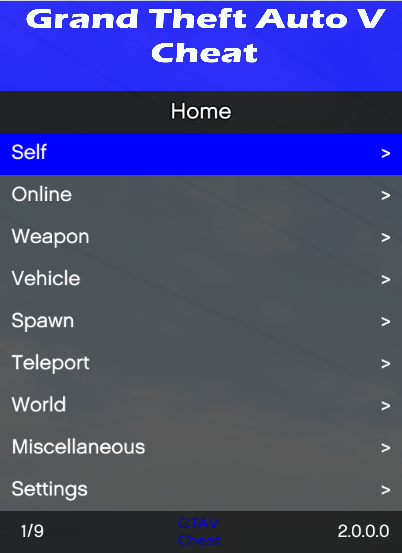
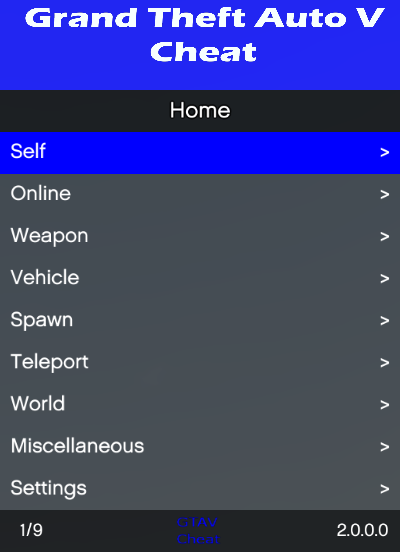
Renamed DeleteActiveTheme() to DeleteLoadedTheme() for consistency & updated Preview Image

diff --git a/Source/Cheat Functions/FiberMain.cpp b/Source/Cheat Functions/FiberMain.cpp
@@ -23,7 +23,7 @@ int SetPedTexture_Torso = 0, SetPedTexture_TorsoTexture = 0, SetPedTexture_Face 
 
 
 void Cheat::FiberMain()
-{ 
+{
 	CheatFeatures::NonLooped();
 	while (true)
 	{
@@ -3131,7 +3131,7 @@ void Cheat::FiberMain()
 				}
 				if (GUI::Option("Delete Theme", "Delete loaded theme"))
 				{
-					GUI::DeleteCurrentTheme();
+					GUI::DeleteLoadedTheme();
 				}
 			}
 			else

diff --git a/Source/GUI/GUI.cpp b/Source/GUI/GUI.cpp
@@ -779,7 +779,7 @@ void Cheat::GUI::LoadTheme(std::string ThemeFileName, bool StartUp)
 	}
 }
 
-void Cheat::GUI::DeleteCurrentTheme()
+void Cheat::GUI::DeleteLoadedTheme()
 {
 	remove(CheatFunctions::StringToChar(CheatFunctions::ReturnThemeFilePath(CurrentTheme)));
 	CheatFunctions::IniFileRemoveKey(CheatFunctions::ReturnConfigFilePath(), "Settings", "Active Theme");

diff --git a/Header/GUI/GUI.h b/Header/GUI/GUI.h
@@ -180,7 +180,7 @@ namespace Cheat
 		extern int GUINavigationKey;
 		extern int SaveSelectableKey;
 		extern bool MenuOptionArrowAnimationState;
-		extern void DeleteCurrentTheme();
+		extern void DeleteLoadedTheme();
 		void MoveMenu(SubMenus menu);
 		void BackMenu();
 		void CloseGUI();
